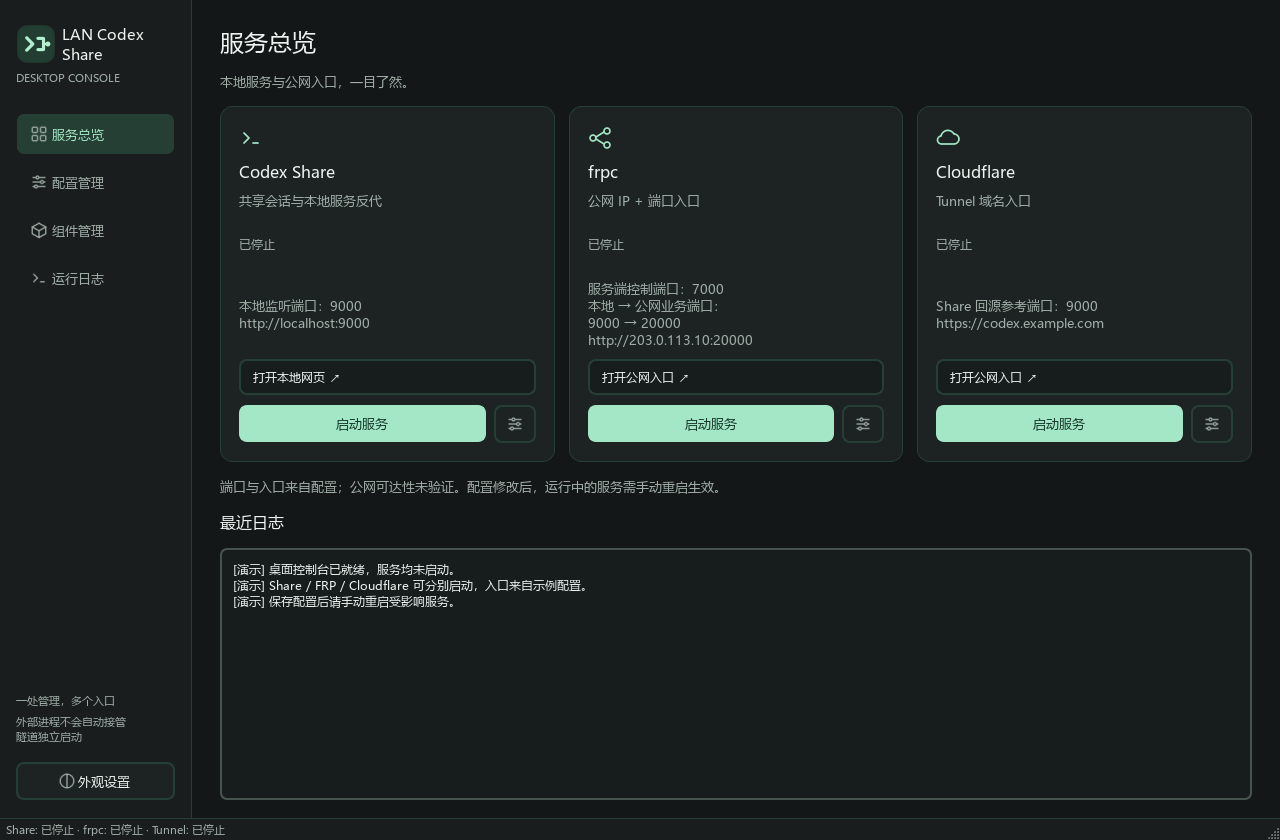
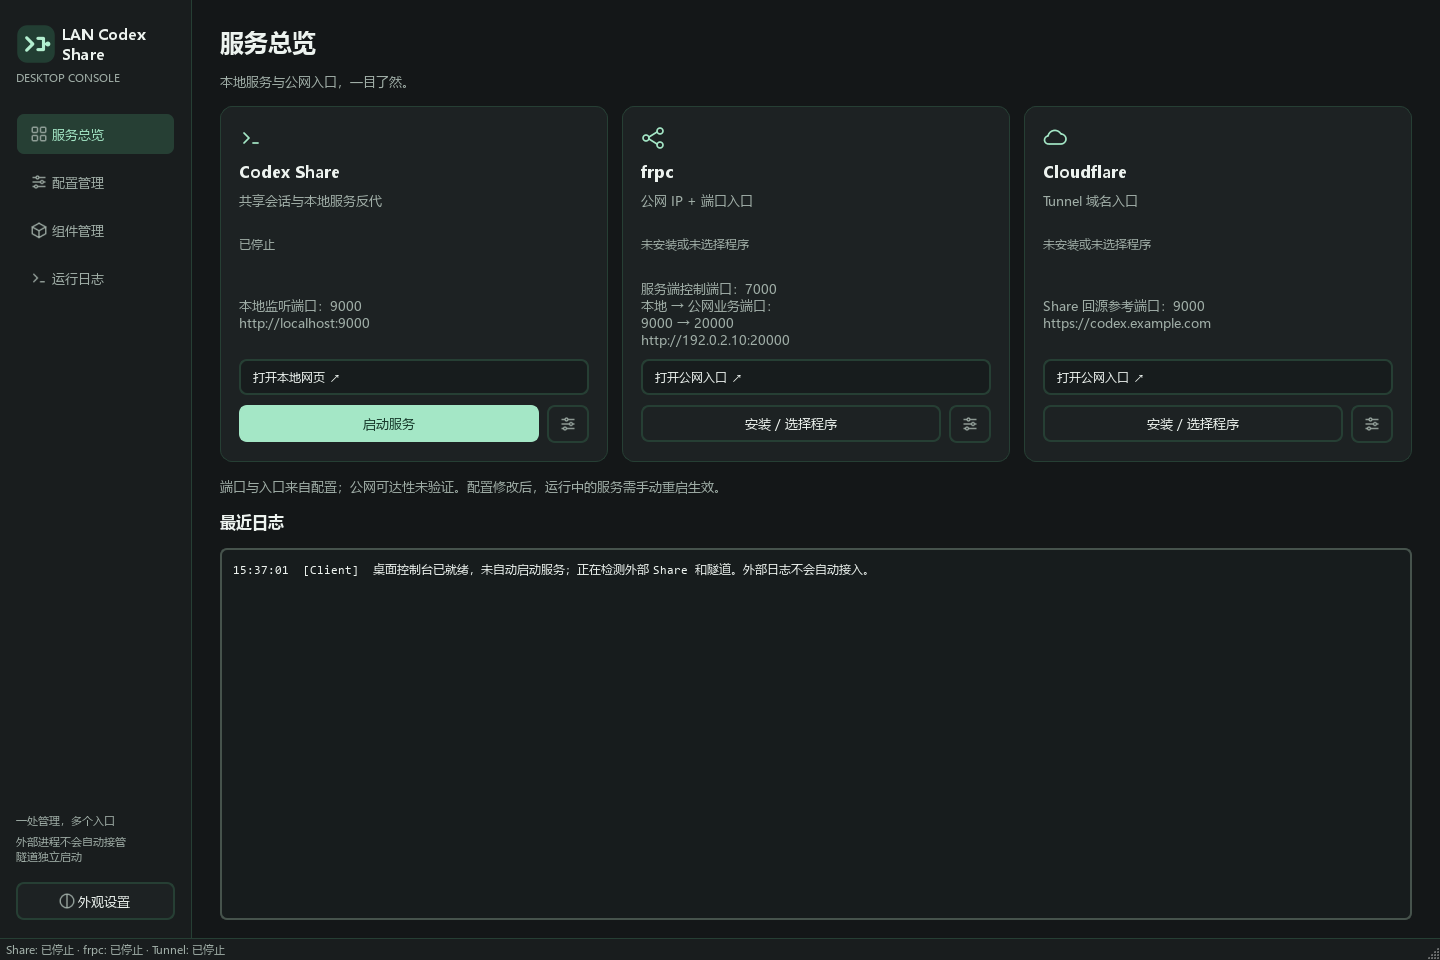
docs: refresh README screenshots for current interface

diff --git a/README.md b/README.md
@@ -4,7 +4,7 @@
 
 同一个 Web 端口还可动态反代本机和局域网 HTTP 服务，无需为每个服务添加子域名或配置条目。
 
-[下载版本包](https://github.com/hcr707305003/lan_codex_share/releases/latest) · [配置示例](lan_config.example.toml) · [v0.2.1 更新说明](docs/releases/v0.2.1.md)
+[下载版本包](https://github.com/hcr707305003/lan_codex_share/releases/latest) · [配置示例](lan_config.example.toml) · [v0.5.1 更新说明](docs/releases/v0.5.1.md)
 
 **公网部署请设置项目密码，并且只代理可信服务。无密码不是只读：访问者可以发送 Codex 任务、读取授权文件并操作可达的内网服务。**
 
@@ -22,7 +22,19 @@
 
 ## 界面预览
 
+以下截图更新于 2026-10-13，使用 v0.5.1 源码与演示数据：网页会话为模拟数据，控制台未启动真实服务或隧道，不包含真实凭证或业务文件。
+
+### 网页工作台
+
+![LAN Codex Share 网页界面：项目分组、共享会话与 Markdown 回复](docs/screenshots/lan-codex-share-overview.png)
+
+网页端提供项目与 Session 导航、实时执行过程、流式回复、模型切换和消息输入，多个局域网访问者可以同步查看同一任务进度。
+
 ### ZIP 压缩包预览
+
+![ZIP 内 PDF 预览：紧凑工具栏与可调宽面板](docs/screenshots/lan-codex-share-pdf-preview.png)
+
+返回目录、面包屑和下载入口集中在顶部，PDF 撑满面板剩余高度。PDF 使用浏览器原生阅读器，其内部工具栏、缩略图和缩放样式可能随浏览器而不同。
 
 桌面端可拖动右侧预览面板的左边界调整宽度，当前浏览器会记住设置；双击分隔线恢复默认。分隔线获得键盘焦点后，可用左右方向键调整、Home 重置。手机窄屏继续使用全屏预览，拖动不会重新加载文件。
 
@@ -48,10 +60,6 @@
 - 预览与下载沿用项目密码并核对 Session，Markdown/文字预览不会执行文档 HTML 或脚本，也不会运行宏或自动加载远程图片。PDF 预览仅允许同源内嵌。项目成员共享访问权限，不提供逐用户私密附件；不要上传不适合当前共享成员查看的材料。原文件和提取缓存保存在本机，缓存不会随聊天历史全量下发；提取文字会通过现有 Codex 配置交给模型服务。
 
 源码升级需要在实际运行 Share 的 Python 环境执行 `python -m pip install -r requirements.txt`，然后由你手动重启服务并刷新页面。v0.3.0 及之后的发布包已包含文档处理依赖，无需安装 Word 或额外 Python 包。
-
-![LAN Codex Share 网页界面](docs/screenshots/lan-codex-share-overview.png)
-
-网页端提供项目与 Session 导航、实时执行过程、流式回复、模型切换和消息输入，多个局域网访问者可以同步查看同一任务进度。
 
 仓库维护者发布新版本时，请按 [流水线构建与版本发布](PIPELINE_RELEASE.md) 操作；每个 Release 必须详细说明与功能相关的新增、修复、行为变化和升级提示。
 
